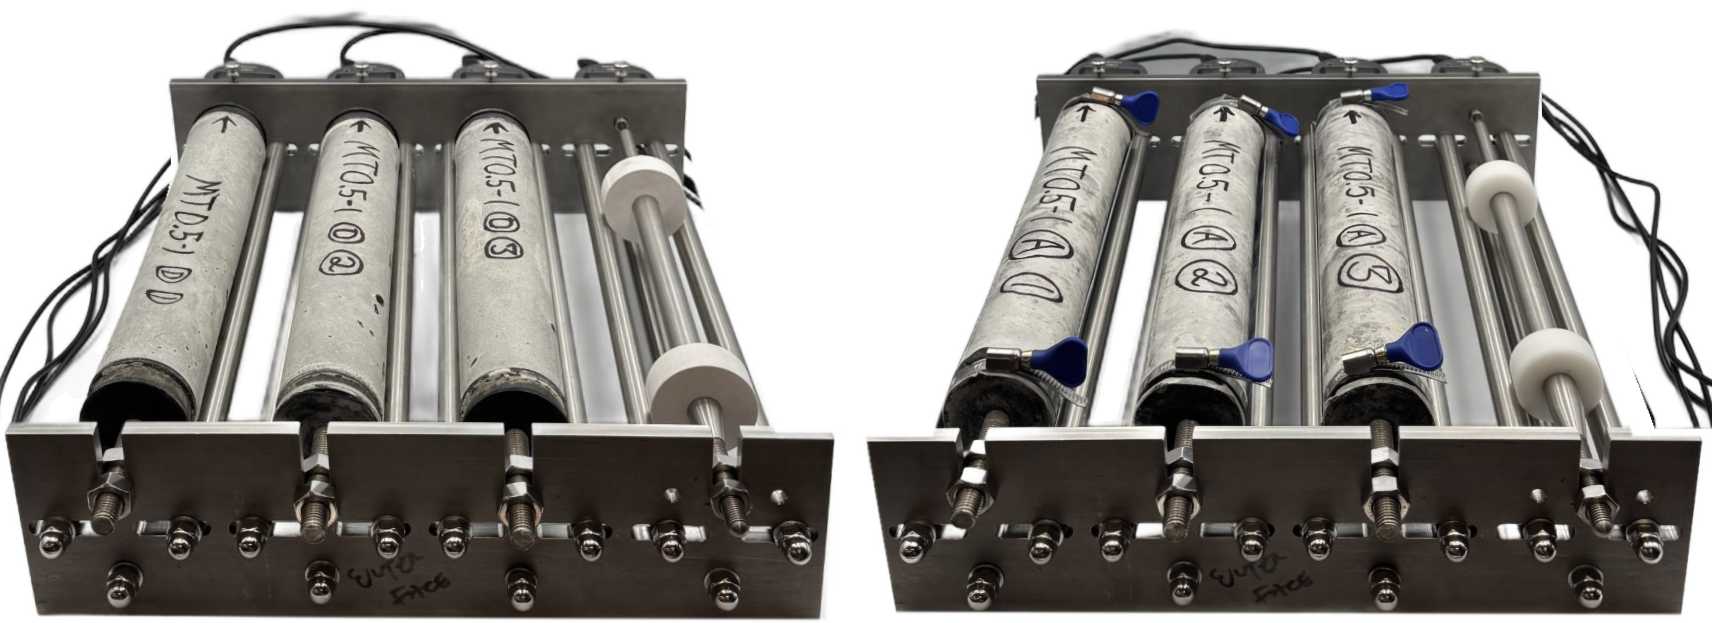
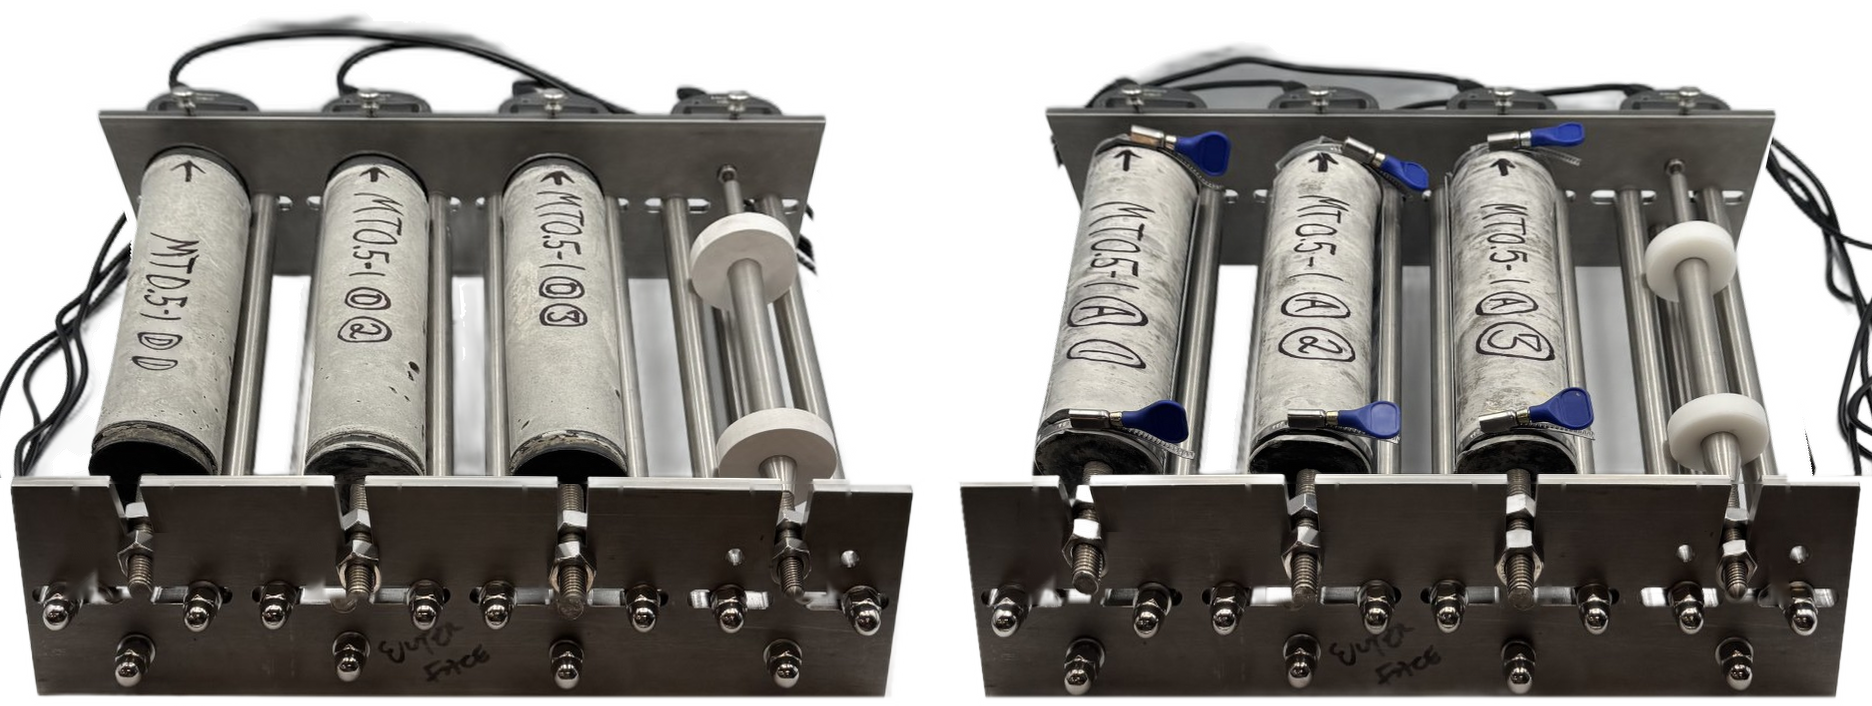
Re-project 45-degree Figure 1 to a flatter, more frontal view
Match the requested look: specimens and rods near-vertical, back plate 0.81 of
the front-plate width and centred, front plate slightly taller. Both rigs use the
same template, warped with separate homographies above and below the front-plate
edge. The threaded rods below the plate edge are inpainted out and re-drawn
along the straightened specimen axes so they stay in line.

Claude-Session: https://claude.ai/code/session_017fwkAQjt5JYwLzDNEhCw96

diff --git a/figures/align_perspective.py b/figures/align_perspective.py
@@ -1,6 +1,13 @@
-"""Final step for Figure1_45deg.png: warp both rigs (built by make_figure1_45deg.py)
-onto one shared, left/right-symmetric perspective template so the front plate, back
-plate and converging rod lines are identical for the two frames.
+"""Final step for Figure1_45deg.png: re-project both rigs (built by make_figure1_45deg.py)
+onto one shared, symmetric template so the frames have identical perspective lines.
+
+Two homographies per rig, blended across the front-plate top edge:
+  upper  (rods/specimens/back plate): back-plate top corners + front-plate top corners
+  lower  (front plate):               front-plate top + bottom corners
+The threaded rods below the plate edge are erased (inpainted) and re-drawn along the
+now-vertical specimen axes so they line up with the specimens.
+Template proportions (units of front-plate width) match the target look: back plate
+0.81 wide, centred, its top 0.41 above the front plate; front plate 0.235 tall, keeping its natural slight taper so the bolts stay upright.
 Usage: python3 align_perspective.py Figure1_45deg.png [gap_px] [D.jpg] [A.jpg]
 """
 import sys, numpy as np, cv2
@@ -8,41 +15,82 @@ from PIL import Image
 from make_figure1_45deg import build, main_alpha, D_R, A_R
 from flip_label import flip_label
 
-# key points: back-plate top L/R, front-plate top L/R, front-plate bottom L/R
+# measured in the photos: back-top L/R, front-top L/R, front-bottom L/R
 P={'D':np.float32([[463,910],[944,910],[297,1234],[1068,1234],[319,1405],[1053,1405]]),
    'A':np.float32([[444,918],[948,918],[269,1282],[1100,1282],[296,1455],[1076,1455]])}
+BACK_W,BACK_H,PLATE_H,PLATE_TAPER=0.81,0.41,0.235,0.027
+def template(W):
+    b=(1-BACK_W)/2
+    return np.float32([[b,-BACK_H],[1-b,-BACK_H],[0,0],[1,0],[PLATE_TAPER,PLATE_H],[1-PLATE_TAPER,PLATE_H]])*W
 
-def norm(p):                       # origin = front-top-left, unit = front-top width
-    o=p[2]; w=p[3,0]-p[2,0]; return (p-o)/w
-def template(width):
-    t=(norm(P['D'])+norm(P['A']))/2
-    # make it left/right symmetric about the front-plate centre
-    m=t.copy(); m[:,0]=1-t[:,0]; m=m[[1,0,3,2,5,4]]
-    t=(t+m)/2
-    return t*width
+# threaded rods + nuts below the front-plate top edge: source x where each leaves the
+# plate top, and how far (source px) it reaches down
+RODS={'D':([393,588,777,972],90),'A':([380,576,785,992],96)}
+
+def warp(layer,src,dst,size,seam_y,rods,band=12,half=(40,24),notch=40,feather=5):
+    """Upper homography above the front-plate top edge, lower one below it.
+    The threaded rods/nuts sticking out of the front plate continue the specimen axes,
+    so they are erased from the plate and re-drawn along those (now vertical) axes."""
+    Wc,Hc=size
+    Hu=cv2.getPerspectiveTransform(src[:4],dst[:4])
+    Hl=cv2.getPerspectiveTransform(src[2:],dst[2:])
+    Hui=np.linalg.inv(Hu)
+    Y,X=np.mgrid[0:Hc,0:Wc].astype(np.float32)
+    pts=np.stack([X,Y,np.ones_like(X)],-1)
+    def inv(H):
+        q=pts@np.linalg.inv(H).T; return q[...,0]/q[...,2], q[...,1]/q[...,2]
+    ux,uy=inv(Hu); lx,ly=inv(Hl)
+    # "fan": below the seam, follow the source lines that the upper homography makes vertical
+    q0=np.stack([X[0],np.full(Wc,seam_y),np.ones(Wc)],-1)@Hui.T
+    q1=np.stack([X[0],np.full(Wc,seam_y-60),np.ones(Wc)],-1)@Hui.T
+    x0,y0=q0[:,0]/q0[:,2],q0[:,1]/q0[:,2]; x1,y1=q1[:,0]/q1[:,2],q1[:,1]/q1[:,2]
+    slope=(x0-x1)/(y0-y1)
+    fx=x0[None,:]+slope[None,:]*(ly-y0[None,:])
+    w=np.clip((Y-seam_y)/band+0.5,0,1)
+    base=((1-w)*ux+w*lx,(1-w)*uy+w*ly)
+    fan=((1-w)*ux+w*fx,(1-w)*uy+w*ly)
+    # erase the original (tilted) rods from the plate in the source
+    xs,reach=rods; ytop=src[2,1]
+    rgb=np.clip(layer[...,:3],0,255).astype(np.uint8)
+    hole=np.zeros(rgb.shape[:2],np.uint8)
+    r=np.zeros((Hc,Wc),np.float32)
+    for x in xs:
+        p=cv2.perspectiveTransform(np.float32([[[x,ytop]]]),Hu)[0,0]
+        e=cv2.perspectiveTransform(np.float32([[[x,ytop+reach]]]),Hl)[0,0]
+        k=slope[int(round(p[0]))]
+        yy=np.arange(int(ytop)-2,int(ytop+reach)+4)
+        for y in yy:                      # wide over the plate notch, narrow over rod/nuts
+            h=half[0] if y<ytop+notch else half[1]
+            c=x+k*(y-ytop); hole[y,int(c-h-3):int(c+h+4)]=255
+        # where the straightened rod goes in the output
+        en=cv2.perspectiveTransform(np.float32([[[x,ytop+notch]]]),Hl)[0,0][1]
+        hw=np.where(Y<en,half[0],half[1])*(dst[3,0]-dst[2,0])/(src[3,0]-src[2,0])
+        t=np.clip((np.abs(X-p[0])-hw)/feather+0.5,0,1); rx=1-t
+        t=np.clip((Y-e[1])/8+0.5,0,1); ry=1-t
+        r=np.maximum(r,rx*ry*(Y>seam_y))
+    clean=layer.copy()
+    clean[...,:3]=cv2.inpaint(rgb,hole,7,cv2.INPAINT_TELEA).astype(np.float32)
+    f32=lambda m:(m[0].astype(np.float32),m[1].astype(np.float32))
+    B=cv2.remap(clean,*f32(base),cv2.INTER_LANCZOS4,borderValue=0)
+    R=cv2.remap(layer,*f32(fan),cv2.INTER_LANCZOS4,borderValue=0)
+    return B*(1-r[...,None])+R*r[...,None]
 
 if __name__=='__main__':
-    out=sys.argv[1]; gap=int(sys.argv[2]) if len(sys.argv)>2 else 30
+    out=sys.argv[1]
     d_rgb=np.array(Image.open(sys.argv[3] if len(sys.argv)>3 else '2.jpg').convert('RGB'))
     flip_label(d_rgb,(418,982,522,1132))
     a_rgb=np.array(Image.open(sys.argv[4] if len(sys.argv)>4 else '1.jpg').convert('RGB'))
     D_R['skew']=0; A_R['skew']=0
     layers={'D':build(d_rgb,main_alpha('D_cut.png'),D_R),'A':build(a_rgb,main_alpha('A_cut.png'),A_R)}
-    Wf=P['A'][3,0]-P['A'][2,0]                     # front-plate width in output px
-    T=template(Wf)
-    m=10
-    top=-T[:,1].min()+90                            # room for gauges/cables above back plate
-    Hc=int(top+T[:,1].max()+m)
-    Wc=int(2*Wf+gap+2*m)
+    Wf=900; T=template(Wf)
+    gap=int(sys.argv[2]) if len(sys.argv)>2 else int(0.054*Wf)
+    m=12; top=-T[:,1].min()+140
+    Hc=int(top+T[:,1].max()+m); Wc=int(2*Wf+gap+2*m)
     canvas=np.ones((Hc,Wc,3),np.float32)*255
     for i,k in enumerate(['D','A']):
         dst=T+np.float32([m+i*(Wf+gap),top])
-        H,_=cv2.findHomography(P[k],dst,0)
-        L=cv2.warpPerspective(layers[k],H,(Wc,Hc),flags=cv2.INTER_LINEAR,borderValue=0)
+        L=np.clip(warp(layers[k],P[k],dst,(Wc,Hc),top,RODS[k]),0,None); L[...,3]=np.clip(L[...,3],0,1)
         a=L[...,3:]; canvas=canvas*(1-a)+L[...,:3]*a
-        err=cv2.perspectiveTransform(P[k][None],H)[0]-dst
-        print(k,'max corner error px',np.abs(err).max().round(1))
-    # trim empty rows at top
     rows=np.where((canvas<250).any((1,2)))[0]
     canvas=canvas[max(rows[0]-m,0):]
     Image.fromarray(np.clip(canvas,0,255).astype(np.uint8)).save(out,dpi=(300,300))
